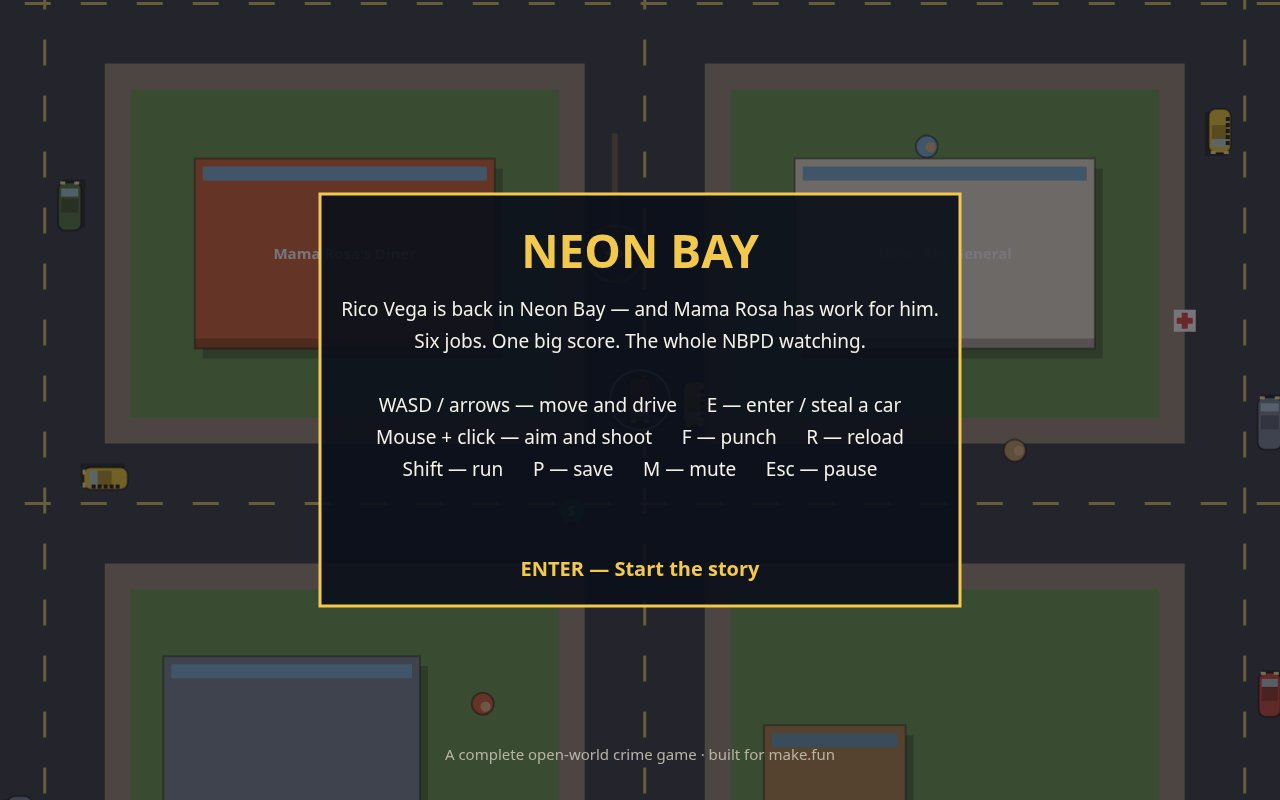
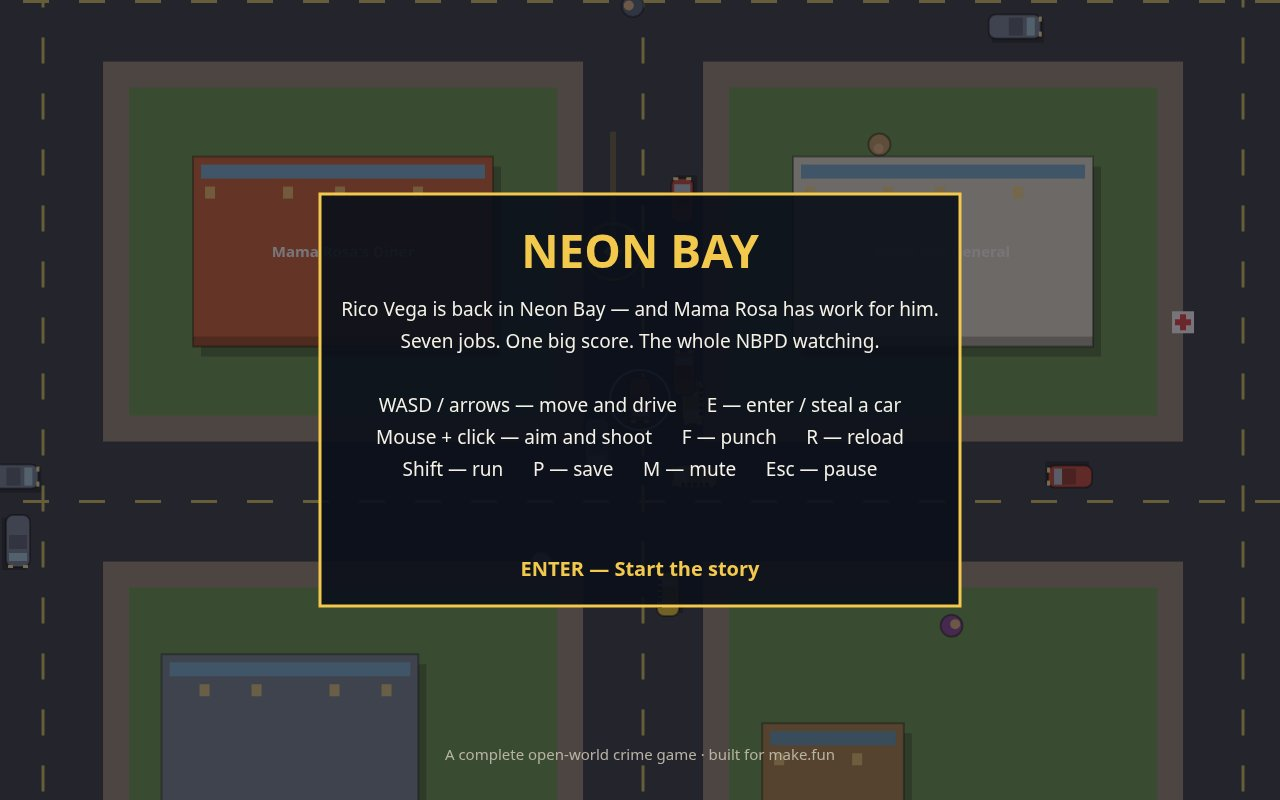
Neon Bay 200x: iterasi 32-39 — efek visual (muzzle, ledakan, knalpot, lampu rem, jendela) + minimap pickup + title 7 misi

diff --git a/game/src/render.js b/game/src/render.js
@@ -130,6 +130,14 @@ export function createRenderer(canvas) {
       ctx.fillRect(b.x, b.y, b.w, b.h);
       ctx.fillStyle = b.glass;
       ctx.fillRect(b.x + 8, b.y + 8, b.w - 16, 14);
+      // Lit windows: a fixed pattern per building (from its position, so it
+      // never flickers), a few warm dots on the roof face.
+      ctx.fillStyle = 'rgba(255, 220, 130, 0.75)';
+      const cols = Math.max(1, Math.floor((b.w - 20) / 26));
+      for (let i = 0; i < cols; i += 1) {
+        const lit = ((b.x * 7 + b.y * 13 + i * 17) % 5) < 2;
+        if (lit) ctx.fillRect(b.x + 12 + i * 26, b.y + 30, 10, 12);
+      }
       ctx.strokeStyle = 'rgba(0,0,0,0.35)';
       ctx.lineWidth = 2;
       ctx.strokeRect(b.x, b.y, b.w, b.h);
@@ -189,6 +197,12 @@ export function createRenderer(canvas) {
     ctx.fillStyle = '#ffe9a3';
     ctx.fillRect(len / 2 - 2, -wid / 2 + 2, 3, 5);
     ctx.fillRect(len / 2 - 2, wid / 2 - 7, 3, 5);
+    // Brake lights glow red at the rear when the car is reversing.
+    if (car.speed < -20) {
+      ctx.fillStyle = '#ff2a2a';
+      ctx.fillRect(-len / 2 - 1, -wid / 2 + 2, 3, 5);
+      ctx.fillRect(-len / 2 - 1, wid / 2 - 7, 3, 5);
+    }
     if (car.kind === 'patrol') {
       ctx.fillStyle = '#ffffff';
       ctx.fillRect(-len / 2 + 2, -wid / 2 + 2, 10, wid - 4);
@@ -446,6 +460,14 @@ export function createRenderer(canvas) {
       ctx.fillStyle = '#ff5a5a';
       ctx.fillRect(x0 + rival.x * sx - 2, y0 + rival.y * sy - 2, 4, 4);
     }
+    // Pickups on the minimap: health green, cash gold, crate brown.
+    for (const item of state.pickups) {
+      if (item.kind === 'health') ctx.fillStyle = '#57d977';
+      else if (item.kind === 'cash') ctx.fillStyle = '#2fae5f';
+      else if (item.kind === 'ammo') ctx.fillStyle = '#f2c94c';
+      else ctx.fillStyle = '#8a6f4d';
+      ctx.fillRect(x0 + item.x * sx - 2, y0 + item.y * sy - 2, 4, 4);
+    }
     if (state.objective) {
       ctx.fillStyle = PALETTE.marker;
       ctx.beginPath();
@@ -610,7 +632,7 @@ export function createRenderer(canvas) {
     if (screen === SCREEN_TITLE) {
       drawPanel('NEON BAY', [
         'Rico Vega is back in Neon Bay — and Mama Rosa has work for him.',
-        'Six jobs. One big score. The whole NBPD watching.',
+        'Seven jobs. One big score. The whole NBPD watching.',
         '',
         'WASD / arrows — move and drive      E — enter / steal a car',
         'Mouse + click — aim and shoot      F — punch      R — reload',

diff --git a/game/src/world.js b/game/src/world.js
@@ -497,6 +497,9 @@ export function createGame(rng) {
       p.shootCd = 0.2;
       p.mag -= 1;
       fireBullet(p.x, p.y, p.aimX, p.aimY, 'player', PLAYER.pistolDamage, 950);
+      // Muzzle flash at the gun tip.
+      const ma = Math.atan2(p.aimY - p.y, p.aimX - p.x);
+      burst(p.x + Math.cos(ma) * 26, p.y + Math.sin(ma) * 26, '#ffe9a3', 4, 140);
       state.shotFired = true;
       state.shotSound = true;
     }
@@ -556,6 +559,12 @@ export function createGame(rng) {
     if (throttle > 0) car.speed += spec.accel * throttle * dt;
     else if (throttle < 0) car.speed += spec.accel * throttle * dt * 1.4;
     else car.speed -= car.speed * 0.9 * dt;
+    // Exhaust puff when pulling away hard.
+    if (throttle > 0 && Math.abs(car.speed) > 120 && rng.chance(0.12)) {
+      const bx = car.x - Math.cos(car.angle) * (spec.length / 2);
+      const by = car.y - Math.sin(car.angle) * (spec.length / 2);
+      state.particles.push({ x: bx, y: by, vx: -Math.cos(car.angle) * 40, vy: -Math.sin(car.angle) * 40, life: 0.5, maxLife: 0.5, color: '#9a9a9a', size: 3 });
+    }
     car.speed -= car.speed * 0.12 * dt;
     car.speed = Math.max(-spec.topSpeed * 0.4, Math.min(spec.topSpeed, car.speed));
     const steer = (input.left ? -1 : 0) + (input.right ? 1 : 0);
@@ -630,6 +639,11 @@ export function createGame(rng) {
     if (car.health <= 0 && !car.smoked) {
       car.smoked = true;
       car.speed = 0;
+      // A wrecked car blows its doors off: a burst of smoke and sparks.
+      burst(car.x, car.y, '#888888', 16, 260);
+      burst(car.x, car.y, '#ffd23d', 10, 300);
+      burst(car.x, car.y, '#ff5a3c', 8, 200);
+      state.shake = Math.max(state.shake, 8);
       showBanner('Your car is wrecked — find another ride', 2.5);
     }
     p.x = car.x;

diff --git a/game/src/shots.js b/game/src/shots.js
@@ -3,7 +3,7 @@
 // by a simple scripted driver, so the frame is what a short game really looks
 // like and the same seed always gives the same frame.
 
-import { STEP } from './tune.js';
+import { PLAYER, STEP } from './tune.js';
 import { SCREEN_PLAY, SCREEN_TITLE } from './render.js';
 
 const IDLE = { up: false, down: false, left: false, right: false, run: false, enter: false, punch: false, reload: false, shoot: false };
@@ -108,7 +108,7 @@ export function stageShot(name, game) {
     p.x = 2330;
     p.y = 2290;
     p.pistol = true;
-    p.mag = 12;
+    p.mag = PLAYER.magSize;
     // Aim at the nearest rival and shoot, so the frame shows the firefight.
     // Short enough that the stage does not finish mid-scene.
     runFor(game, 1.5, () => {

diff --git a/ITERATIONS-200X.md b/ITERATIONS-200X.md
@@ -54,3 +54,11 @@ TERUS hingga tercapai. Setiap iterasi = perubahan nyata + uji.**
 | 29 | Misi ke-7 "The Getaway" — epilog: survive 20 dtk (4 bintang) lalu ke pantai selatan, reward $1.000; total $5.650 | headless test (7 misi selesai) | KEEP |
 | 30 | HUD "Mission X of 6" → dinamis `of ${MISSIONS.length}` (render.js import MISSIONS) | headless test | KEEP |
 | 31 | README: six→seven jobs, mobil + landmark baru didokumentasikan | — | KEEP |
+| 32 | Muzzle flash (burst kuning di ujung pistol) saat menembak | headless test | KEEP |
+| 33 | Ledakan saat mobil hancur (asap + percikan + guncangan) | headless test | KEEP |
+| 34 | Asap knalpot saat akselerasi keras | headless test | KEEP |
+| 35 | Minimap tampilkan pickup (hijau health, hijau cash, emas ammo, coklat crate) | headless test | KEEP |
+| 36 | Lampu rem merah saat mobil mundur | headless test | KEEP |
+| 37 | Jendela gedung menyala (pola tetap per gedung, tidak berkedip) | headless test + screenshot | KEEP |
+| 38 | Title screen "Six jobs" → "Seven jobs" (konsisten dengan misi ke-7) | screenshot 1-start | KEEP |
+| 39 | shots.js mag hardcode 12 → PLAYER.magSize (14) | headless test + screenshot | KEEP |
